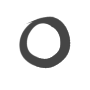
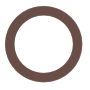
feat: get sprite rendering working on level select screen

diff --git a/renderer.c b/renderer.c
@@ -8,6 +8,7 @@
 #include "game_settings.h"
 
 #define SPRITE_DATA "static/sprite_data.txt"
+#define LEVEL_SPRITE_DATA "static/level_sprite_data.txt"
 #define SPRITE_HEIGHT 200
 #define SPRITE_WIDTH 280
 
@@ -74,7 +75,7 @@ int load_shaders(renderer* r) {
     return 0;
 }
 
-int init_shader_data(shader_data* shader, char* fill_path, char* sdf_path) {
+int init_shader_data(shader_data* shader, char* fill_path) {
     u32 vertex_shader;
     u32 fragment_shader;
     u32 shader_program;
@@ -83,7 +84,6 @@ int init_shader_data(shader_data* shader, char* fill_path, char* sdf_path) {
     int width1, height1, nrChannels1;
     stbi_set_flip_vertically_on_load(true);
     unsigned char *fill_data = stbi_load(fill_path,&width,&height,&nrChannels,0);
-    unsigned char *sdf_data = stbi_load(sdf_path,&width1,&height1,&nrChannels1,0);
 
     vertex_shader = glCreateShader(GL_VERTEX_SHADER);
     fragment_shader = glCreateShader(GL_FRAGMENT_SHADER);
@@ -99,20 +99,7 @@ int init_shader_data(shader_data* shader, char* fill_path, char* sdf_path) {
     glTexParameteri(GL_TEXTURE_2D, GL_TEXTURE_MIN_FILTER, GL_LINEAR);
     glTexParameteri(GL_TEXTURE_2D, GL_TEXTURE_MAG_FILTER, GL_LINEAR);
     glGenerateMipmap(GL_TEXTURE_2D);
-
-    u32 sdf_texture;
-    glGenTextures(1, &sdf_texture);
-    glActiveTexture(GL_TEXTURE1);
-    glBindTexture(GL_TEXTURE_2D, sdf_texture);
-    glTexImage2D(GL_TEXTURE_2D, 0, GL_RGBA, width1, height1, 0, GL_RGBA, GL_UNSIGNED_BYTE, sdf_data);
-    glTexParameteri(GL_TEXTURE_2D, GL_TEXTURE_WRAP_S, GL_REPEAT);
-    glTexParameteri(GL_TEXTURE_2D, GL_TEXTURE_WRAP_T, GL_REPEAT);
-    glTexParameteri(GL_TEXTURE_2D, GL_TEXTURE_MIN_FILTER, GL_LINEAR);
-    glTexParameteri(GL_TEXTURE_2D, GL_TEXTURE_MAG_FILTER, GL_LINEAR);
-    glGenerateMipmap(GL_TEXTURE_2D);
-
     stbi_image_free(fill_data);
-    stbi_image_free(sdf_data);
 
     u32 framebuffer;
     glGenFramebuffers(1, &framebuffer);
@@ -137,7 +124,6 @@ int init_shader_data(shader_data* shader, char* fill_path, char* sdf_path) {
     shader->fragment_shader = fragment_shader;
     shader->shader_program = shader_program;
     shader->fill_texture = fill_texture;
-    shader->sdf_texture = sdf_texture;
     shader->framebuffer = framebuffer;
     shader->rendered_texture = rendered_texture;
     return 0;
@@ -168,6 +154,17 @@ int init_sprite_data(renderer* r) {
         sprite_data sd;
         fscanf(sprite_datafile, "%i %i %f %f %f %f\n", &sd.w, &sd.h, &sd.x1, &sd.y1, &sd.x2, &sd.y2);
         r->sprites[i] = sd;
+    }
+    fclose(sprite_datafile);
+
+    n = 0;
+    sprite_datafile = fopen(LEVEL_SPRITE_DATA, "r");
+    fscanf(sprite_datafile, "%i\n", &n);
+    r->level_sprites = (sprite_data*) malloc(n*sizeof(sprite_data));
+    for (int i=0; i<n; i++) {
+        sprite_data sd;
+        fscanf(sprite_datafile, "%i %i %f %f %f %f\n", &sd.w, &sd.h, &sd.x1, &sd.y1, &sd.x2, &sd.y2);
+        r->level_sprites[i] = sd;
     }
     fclose(sprite_datafile);
     return 0;
@@ -207,9 +204,9 @@ int init_renderer(renderer* r, char* window_name) {
     renderer r_ = { false, window, { (int)window_width, (int)window_height },
                     ingame_shader, level_background_shader, level_shader, ingame_buffer, level_buffer, NULL };
     *r = r_;
-    init_shader_data(&r->ingame_shader, "static/fillsheet.png", "static/sdfsheet.png");
-    init_shader_data(&r->level_background_shader, "static/brani2.png", "static/ls_sdf.png");
-    init_shader_data(&r->level_shader, "static/lev1.png", "static/lev1.png");
+    init_shader_data(&r->ingame_shader, "static/fillsheet.png");
+    init_shader_data(&r->level_background_shader, "static/brani2.png");
+    init_shader_data(&r->level_shader, "static/level_fillsheet.png");
     u32 framebuffer;
 
     init_buffer_data(&r->ingame_buffer, get_ingame_buffer_size());
@@ -552,8 +549,6 @@ int render_game_scene(renderer* r, world* w) {
     glUniform1i(glGetUniformLocation(r->ingame_shader.shader_program, "sdfsheet"), 1);
     glActiveTexture(GL_TEXTURE0);
     glBindTexture(GL_TEXTURE_2D, r->ingame_shader.fill_texture);
-    glActiveTexture(GL_TEXTURE1);
-    glBindTexture(GL_TEXTURE_2D, r->ingame_shader.sdf_texture);
     glBindVertexArray(r->ingame_buffer.vao);
     glBindBuffer(GL_ARRAY_BUFFER, r->ingame_buffer.vbo);
     glBufferSubData(GL_ARRAY_BUFFER, 0, r->ingame_buffer.buffer_size, r->ingame_buffer.vertex_buffer);
@@ -571,8 +566,6 @@ int render_game_scene(renderer* r, world* w) {
     glBindBuffer(GL_ARRAY_BUFFER, 0);
     glBindVertexArray(0);
     glActiveTexture(GL_TEXTURE0+0);
-    glBindTexture(GL_TEXTURE_2D, 0);
-    glActiveTexture(GL_TEXTURE1);
     glBindTexture(GL_TEXTURE_2D, 0);
     memset(r->ingame_buffer.vertex_buffer, 0, r->ingame_buffer.buffer_size);
     r->ingame_buffer.buffer_occupied = 0;
@@ -697,11 +690,11 @@ int draw_line_connections(renderer* r, world* w, level_connection con) {
     float lx2 = (next_level.xpos);
     float ly2 = LS_HEIGHT-(next_level.ypos);
     if (con.is_left_right) {
-        lx1 += 20.0;
-        lx2 -= 20.0;
+        lx1 += 40.0;
+        lx2 -= 40.0;
     } else {
-        ly1 -= 20.0;
-        ly2 += 20.0;
+        ly1 -= 40.0;
+        ly2 += 40.0;
     }
     float opacity = 0.5 * pow(my_min(1.0, (w->seconds - con.draw_time)/2.0), 0.7);
     float extent = 3.0 * pow(my_min((w->seconds - level.complete_time) / 2.0, 1.0), 0.7);
@@ -756,7 +749,7 @@ int update_level_vertex_background_sdf_buffer(renderer* r, world* w, bool just_b
         if (!level.completed)
             continue;
         float radius = get_min_connection_length(w, level);
-        radius = LEVEL_BACKGROUND_SDF_WIDTH;
+        radius = my_min(radius, LEVEL_BACKGROUND_SDF_WIDTH);
         float lx = (level.xpos);
         float ly = LS_HEIGHT-(level.ypos);
         float extent = 3.0 * pow(my_min((w->seconds - level.complete_time) / 2.0, 1.0), 0.7);
@@ -779,13 +772,40 @@ int update_level_vertex_background_sdf_buffer(renderer* r, world* w, bool just_b
     return 0;
 }
 
+int draw_connection_arrows(renderer* r, world* w, float vx1, float vy1, float vx2, float vy2, level_option level) {
+    int next;
+    sprite_data sd;
+    sd = r->level_sprites[3];
+    next = level.up_index;
+    if (next >= 0) {
+        level_connection con = w->level_select.connections[next];
+        if (con.discovered)
+            add_single_vertex_to_buffer(&r->level_buffer, vx1, vy1, vx2, vy2, sd.x1, sd.y1, sd.x2, sd.y2, -0.2, -1.0);
+    }
+    next = level.down_index;
+    if (next >= 0) {
+        level_connection con = w->level_select.connections[next];
+        if (con.discovered)
+            add_single_vertex_to_buffer(&r->level_buffer, vx1, vy1, vx2, vy2, sd.x2, sd.y2, sd.x1, sd.y1, -0.2, -1.0);
+    }
+    sd = r->level_sprites[4];
+    next = level.left_index;
+    if (next >= 0) {
+        level_connection con = w->level_select.connections[next];
+        if (con.discovered)
+            add_single_vertex_to_buffer(&r->level_buffer, vx1, vy1, vx2, vy2, sd.x2, sd.y1, sd.x1, sd.y2, -0.2, -1.0);
+    }
+    next = level.right_index;
+    if (next >= 0) {
+        level_connection con = w->level_select.connections[next];
+        if (con.discovered)
+            add_single_vertex_to_buffer(&r->level_buffer, vx1, vy1, vx2, vy2, sd.x1, sd.y1, sd.x2, sd.y2, -0.2, -1.0);
+    }
+    return 0;
+}
+
 int update_level_select_vertex_buffer(renderer* r, world* w) {
     // we want a single smaller circle in middle of screen always
-    float vx1 = screen_pixel_to_vertex_x(r, r->size[0]/2-LEVEL_SPRITE_WIDTH/4.0);
-    float vy1 = screen_pixel_to_vertex_y(r, r->size[1]/2-LEVEL_SPRITE_HEIGHT/4.0);
-    float vx2 = screen_pixel_to_vertex_x(r, r->size[0]/2+LEVEL_SPRITE_WIDTH/4.0);
-    float vy2 = screen_pixel_to_vertex_y(r, r->size[1]/2+LEVEL_SPRITE_HEIGHT/4.0);
-    add_single_vertex_to_buffer(&r->level_buffer, vx1, vy1, vx2, vy2, 0.0, 0.0, 1.0, 1.0, -0.1, -1.0);
     level_option active_level = w->level_select.levels[w->level_select.current_level];
     float cx = w->level_select.cx - r->size[0]/2;
     float cy = w->level_select.cy - r->size[1]/2;
@@ -793,16 +813,27 @@ int update_level_select_vertex_buffer(renderer* r, world* w) {
         level_option level = w->level_select.levels[i];
         if (!level.unlocked)
             continue;
+        sprite_data sd;
+        if (level.completed)
+            sd = r->level_sprites[0];
+        else
+            sd = r->level_sprites[1];
         float lx = (level.xpos-cx);
         float ly = r->size[1]-(level.ypos-cy);
         float vx1 = screen_pixel_to_vertex_x(r, lx-LEVEL_SPRITE_WIDTH/2.0);
         float vy1 = screen_pixel_to_vertex_y(r, ly-LEVEL_SPRITE_HEIGHT/2.0);
         float vx2 = screen_pixel_to_vertex_x(r, lx+LEVEL_SPRITE_WIDTH/2.0);
         float vy2 = screen_pixel_to_vertex_y(r, ly+LEVEL_SPRITE_HEIGHT/2.0);
-        add_single_vertex_to_buffer(&r->level_buffer, vx1, vy1, vx2, vy2, 0.0, 0.0, 1.0, 1.0, -0.1, -1.0);
-        if (i == w->level_select.current_level) {
-        }
+        add_single_vertex_to_buffer(&r->level_buffer, vx1, vy1, vx2, vy2, sd.x1, sd.y1, sd.x2, sd.y2, -0.1, -1.0);
+        draw_connection_arrows(r, w, vx1, vy1, vx2, vy2, level);
     }
+    sprite_data sd;
+    sd = r->level_sprites[2];
+    float vx1 = screen_pixel_to_vertex_x(r, r->size[0]/2-LEVEL_SPRITE_WIDTH/4.0);
+    float vy1 = screen_pixel_to_vertex_y(r, r->size[1]/2-LEVEL_SPRITE_HEIGHT/4.0);
+    float vx2 = screen_pixel_to_vertex_x(r, r->size[0]/2+LEVEL_SPRITE_WIDTH/4.0);
+    float vy2 = screen_pixel_to_vertex_y(r, r->size[1]/2+LEVEL_SPRITE_HEIGHT/4.0);
+    add_single_vertex_to_buffer(&r->level_buffer, vx1, vy1, vx2, vy2, sd.x1, sd.y1, sd.x2, sd.y2, -0.1, -1.0);
     return 0;
 }
 
@@ -820,7 +851,7 @@ int render_level_select(renderer* r, world* w, bool just_background) {
     glActiveTexture(GL_TEXTURE0);
     glEnable(GL_BLEND);
     glActiveTexture(GL_TEXTURE0);
-    glBindTexture(GL_TEXTURE_2D, r->level_background_shader.sdf_texture);
+    glBindTexture(GL_TEXTURE_2D, r->level_background_shader.fill_texture);
     glBindVertexArray(r->level_buffer.vao);
     glBindBuffer(GL_ARRAY_BUFFER, r->level_buffer.vbo);
     glBufferSubData(GL_ARRAY_BUFFER, 0, r->level_buffer.buffer_size, r->level_buffer.vertex_buffer);
@@ -891,7 +922,7 @@ int render_level_select(renderer* r, world* w, bool just_background) {
     glEnable(GL_BLEND);
     glBlendFunc(GL_SRC_ALPHA, GL_ONE_MINUS_SRC_ALPHA);
     glActiveTexture(GL_TEXTURE0);
-    glBindTexture(GL_TEXTURE_2D, r->level_shader.sdf_texture);
+    glBindTexture(GL_TEXTURE_2D, r->level_shader.fill_texture);
     glBindVertexArray(r->level_buffer.vao);
     glBindBuffer(GL_ARRAY_BUFFER, r->level_buffer.vbo);
     glBufferSubData(GL_ARRAY_BUFFER, 0, r->level_buffer.buffer_size, r->level_buffer.vertex_buffer);

diff --git a/assemble_level.c b/assemble_level.c
@@ -1,0 +1,78 @@
+#include <math.h>
+#include <stdint.h>
+#define STB_IMAGE_IMPLEMENTATION
+#define STB_RECT_PACK_IMPLEMENTATION
+#define STB_IMAGE_WRITE_IMPLEMENTATION
+#include "stb_image.h"
+#include "stb_rect_pack.h"
+#include "stb_image_write.h"
+
+#define u8 uint8_t
+#define TOTAL_NUMBER 5
+#define NUMBER_OF_NODES 2048
+#define SPRITE_DATA_FILE "static/level_sprite_data.txt"
+
+int main(int argc, char** argv) {
+    char* filenames[TOTAL_NUMBER];
+    unsigned char* fill_data[TOTAL_NUMBER];
+    stbrp_rect rects[TOTAL_NUMBER];
+    int w, h, n;
+    filenames[0] = "static/lev1";
+    filenames[1] = "static/lev2";
+    filenames[2] = "static/cross1";
+    filenames[3] = "static/arrow1";
+    filenames[4] = "static/arrow2";
+
+    for (int i=0; i<TOTAL_NUMBER; i++) {
+        char fillname[50];
+        sprintf(fillname, "%s.png", filenames[i]);
+        rects[i].id = i;
+        fill_data[i] = stbi_load(fillname, &rects[i].w, &rects[i].h, &n, 0);
+    }
+    int total_width = 0;
+    int total_height = 0;
+    for (int i=0; i<TOTAL_NUMBER; i++) {
+        total_width += rects[i].w;
+        total_height = max(total_height, rects[i].h);
+    }
+    // pack the rects
+    stbrp_context packing_context;
+    stbrp_node* nodes = (stbrp_node*) malloc(sizeof(stbrp_node)*NUMBER_OF_NODES);
+    stbrp_init_target(&packing_context, total_width, total_height, nodes, NUMBER_OF_NODES);
+    stbrp_setup_allow_out_of_mem(&packing_context, 1);
+    if (stbrp_pack_rects(&packing_context, rects, TOTAL_NUMBER) == 0) {
+        printf("failed to pack rects. quitting.\n");
+        return 0;
+    }
+    // create image
+    u8* fill_output = (u8*) calloc(total_width*total_height*4, sizeof(u8));
+    for (int i=0; i<TOTAL_NUMBER; i++) {
+        for (int x=0; x<rects[i].w; x++) {
+            for (int y=0; y<rects[i].h; y++) {
+                int packed_x = rects[i].x;
+                int packed_y = rects[i].y;
+                for (int j=0; j<4; j++) {
+                    fill_output[((packed_y+y)*total_width + packed_x+x)*4 + j] = fill_data[i][(y*rects[i].w+x)*4 + j];
+                }
+            }
+        }
+    }
+    stbi_write_png("static/level_fillsheet.png", total_width, total_height, 4, fill_output, 0);
+    FILE* sprite_data = fopen(SPRITE_DATA_FILE, "w");
+    fprintf(sprite_data, "%i\n", TOTAL_NUMBER);
+    for (int i=0; i<TOTAL_NUMBER; i++) {
+        // w h tx1 ty1 tx2 ty2
+        stbrp_rect rect = rects[i];
+        float x1 = 1.0 * rect.x / total_width;
+        // this is because data is saved upside down compared to opengl loader.
+        float y1 = 1.0 * (total_height - (rect.y + rect.h)) / total_height;
+        float x2 = 1.0 * (rect.x + rect.w) / total_width;
+        float y2 = 1.0 * (total_height-rect.y) / total_height;
+        fprintf(sprite_data, "%i %i %f %f %f %f\n", rect.w, rect.h, x1, y1, x2, y2);
+    }
+    fclose(sprite_data);
+
+    
+    printf("exitting level.\n");
+    return 0;
+}

diff --git a/game.c b/game.c
@@ -18,9 +18,11 @@
 // with callbacks. See if there is a better way to accomplish this.
 world* global_w;
 renderer* global_r;
+int global_fullscreen;
 
 void set_renderer(void* r) {
     global_r = (renderer*) r;
+    set_fullscreen(r, global_fullscreen);
 }
 
 float get_x_padding(world* w) {
@@ -536,12 +538,12 @@ int save_game_progress(world* w) {
 int load_game_progress(world* w) {
     FILE* save_file = fopen(SAVEFILE, "r");
     int total_levels, total_connections;
-    int major_version, minor_version, rando;
+    int major_version, minor_version;
     // getting file version
     fscanf(save_file, "beta v%i.%i\n", &major_version, &minor_version);
     // TODO (12 Aug 2020 sam): Check version here.
     // getting saved settings
-    fscanf(save_file, "%i %i %i %i\n", &w->level_select.current_level, &rando, &total_levels, &total_connections);
+    fscanf(save_file, "%i %i %i %i\n", &w->level_select.current_level, &global_fullscreen, &total_levels, &total_connections);
     printf("total levels: %i\t total connections: %i\n", total_levels, total_connections);
     // TODO (12 Aug 2020 sam): Make sure there aren't more levels/connections than data loaded.
     for (int i=0; i<total_levels; i++) {
@@ -1064,7 +1066,7 @@ int queue_player_animation(world* w , u32 index, animations a) {
 }
 
 int schedule_player_win(world* w, int depth) {
-    w->win_schedule_time = w->seconds + depth*ANIMATION_SINGLE_STEP_TIME;
+    w->win_schedule_time = w->seconds + (depth+1)*ANIMATION_SINGLE_STEP_TIME;
     w->win_scheduled = true;
     return 0;
 }
@@ -1850,7 +1852,7 @@ int handle_input_state(world* w, SDL_GameController* controller) {
         set_input(w, UNDO_MOVE);
     if (keyboard[SDL_SCANCODE_R])
         set_input(w, RESTART_LEVEL);
-    if (keyboard[SDL_SCANCODE_RETURN] || keyboard[SDL_SCANCODE_KP_ENTER])
+    if (keyboard[SDL_SCANCODE_RETURN] || keyboard[SDL_SCANCODE_KP_ENTER] || keyboard[SDL_SCANCODE_SPACE] || keyboard[SDL_SCANCODE_X])
         set_input(w, ENTER);
     // controller buttons
     if (controller != NULL) {

diff --git a/main.c b/main.c
@@ -17,11 +17,11 @@ int main(int argc, char** argv) {
     // TODO (31 Mar 2020 sam): Name this window according to the current version;
     SDL_Init(SDL_INIT_VIDEO | SDL_INIT_GAMECONTROLLER);
     Mix_OpenAudio(22050, MIX_DEFAULT_FORMAT, 2, 4096);
+    renderer r;
+    init_renderer(&r, "blobules");
     world w;
     init_world(&w, 1024);
     printf("initted world\n");
-    renderer r;
-    init_renderer(&r, "blobules");
     // boombox b;
     // init_boombox(&b);
     // w.boom = &b;

diff --git a/renderer.h b/renderer.h
@@ -16,7 +16,6 @@ typedef struct {
     u32 fragment_shader;
     u32 shader_program;
     u32 fill_texture;
-    u32 sdf_texture;
     u32 framebuffer;
     u32 rendered_texture;
 } shader_data;
@@ -48,6 +47,7 @@ typedef struct {
     buffer_data ingame_buffer;
     buffer_data level_buffer;
     sprite_data* sprites;
+    sprite_data* level_sprites;
     entity_type* ground_entities;
 } renderer;
 
